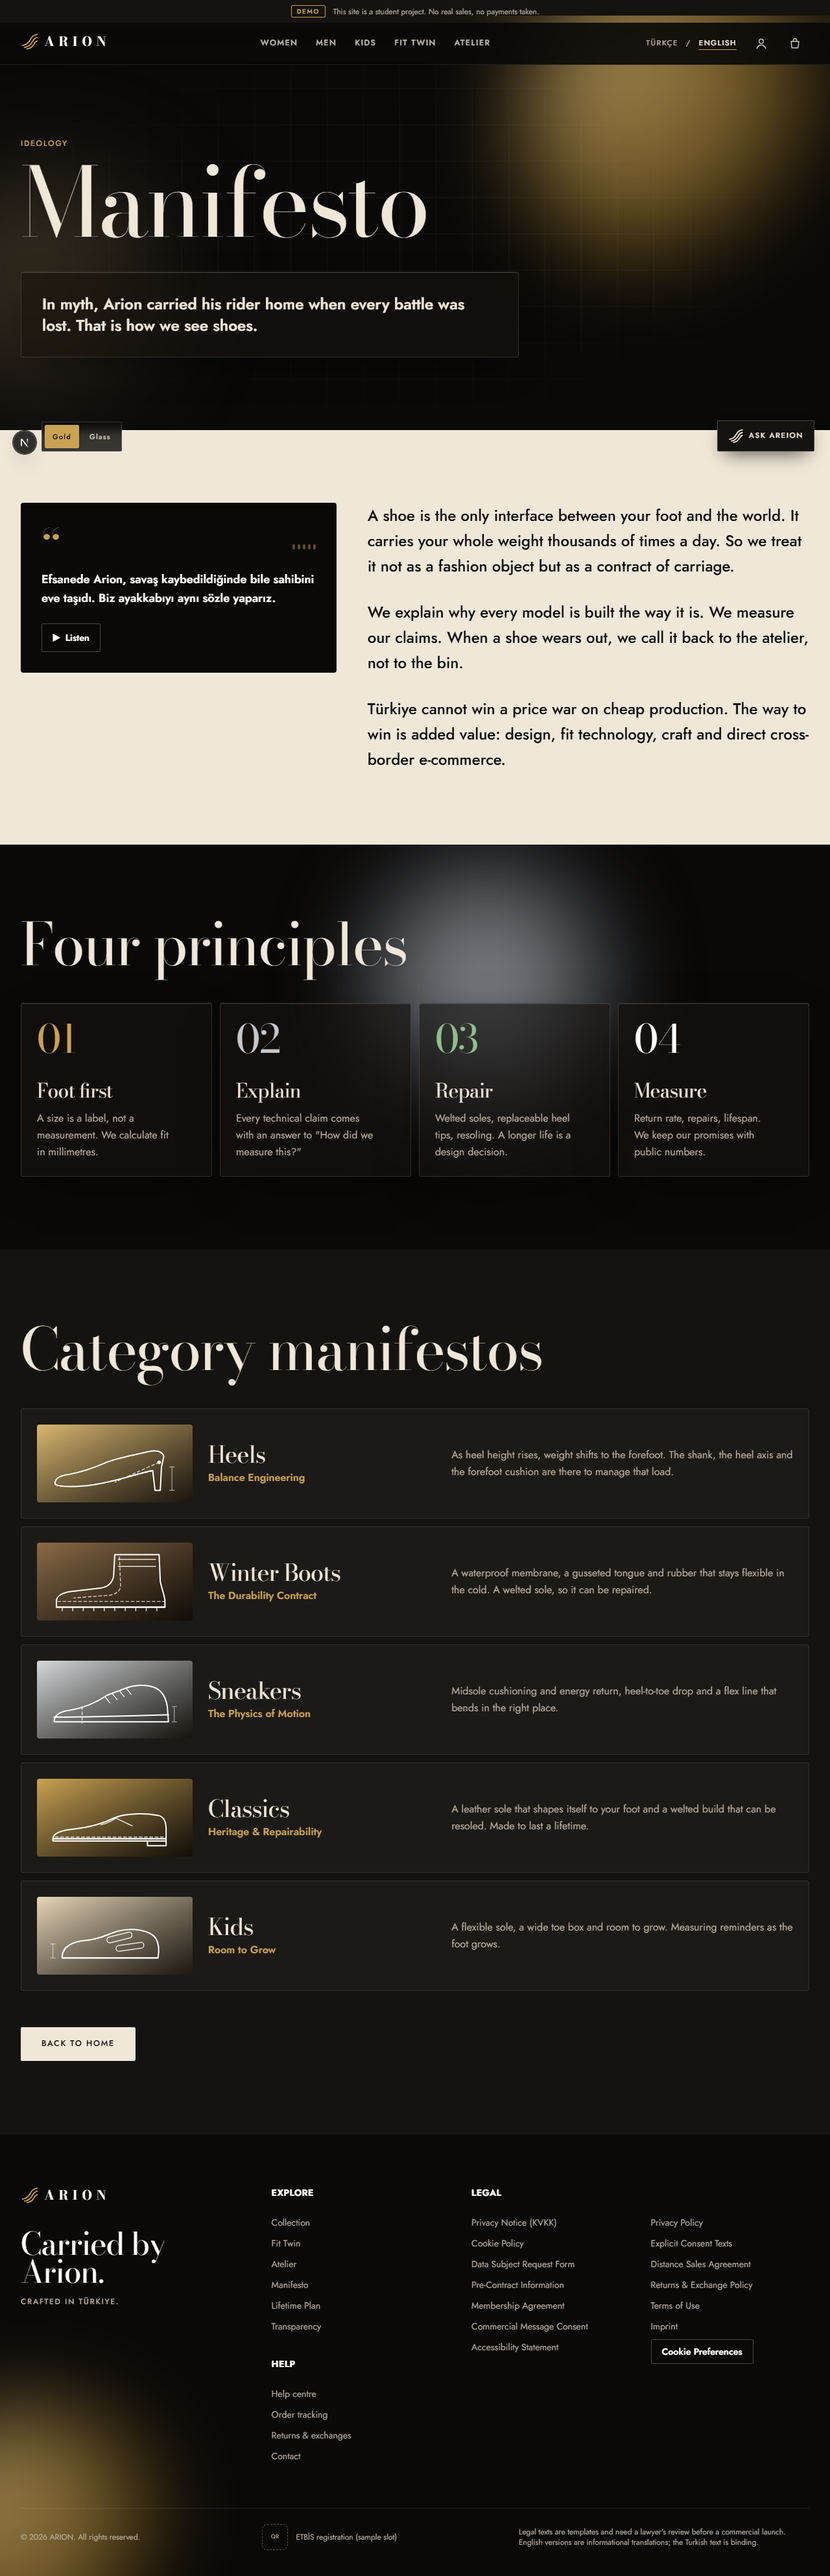
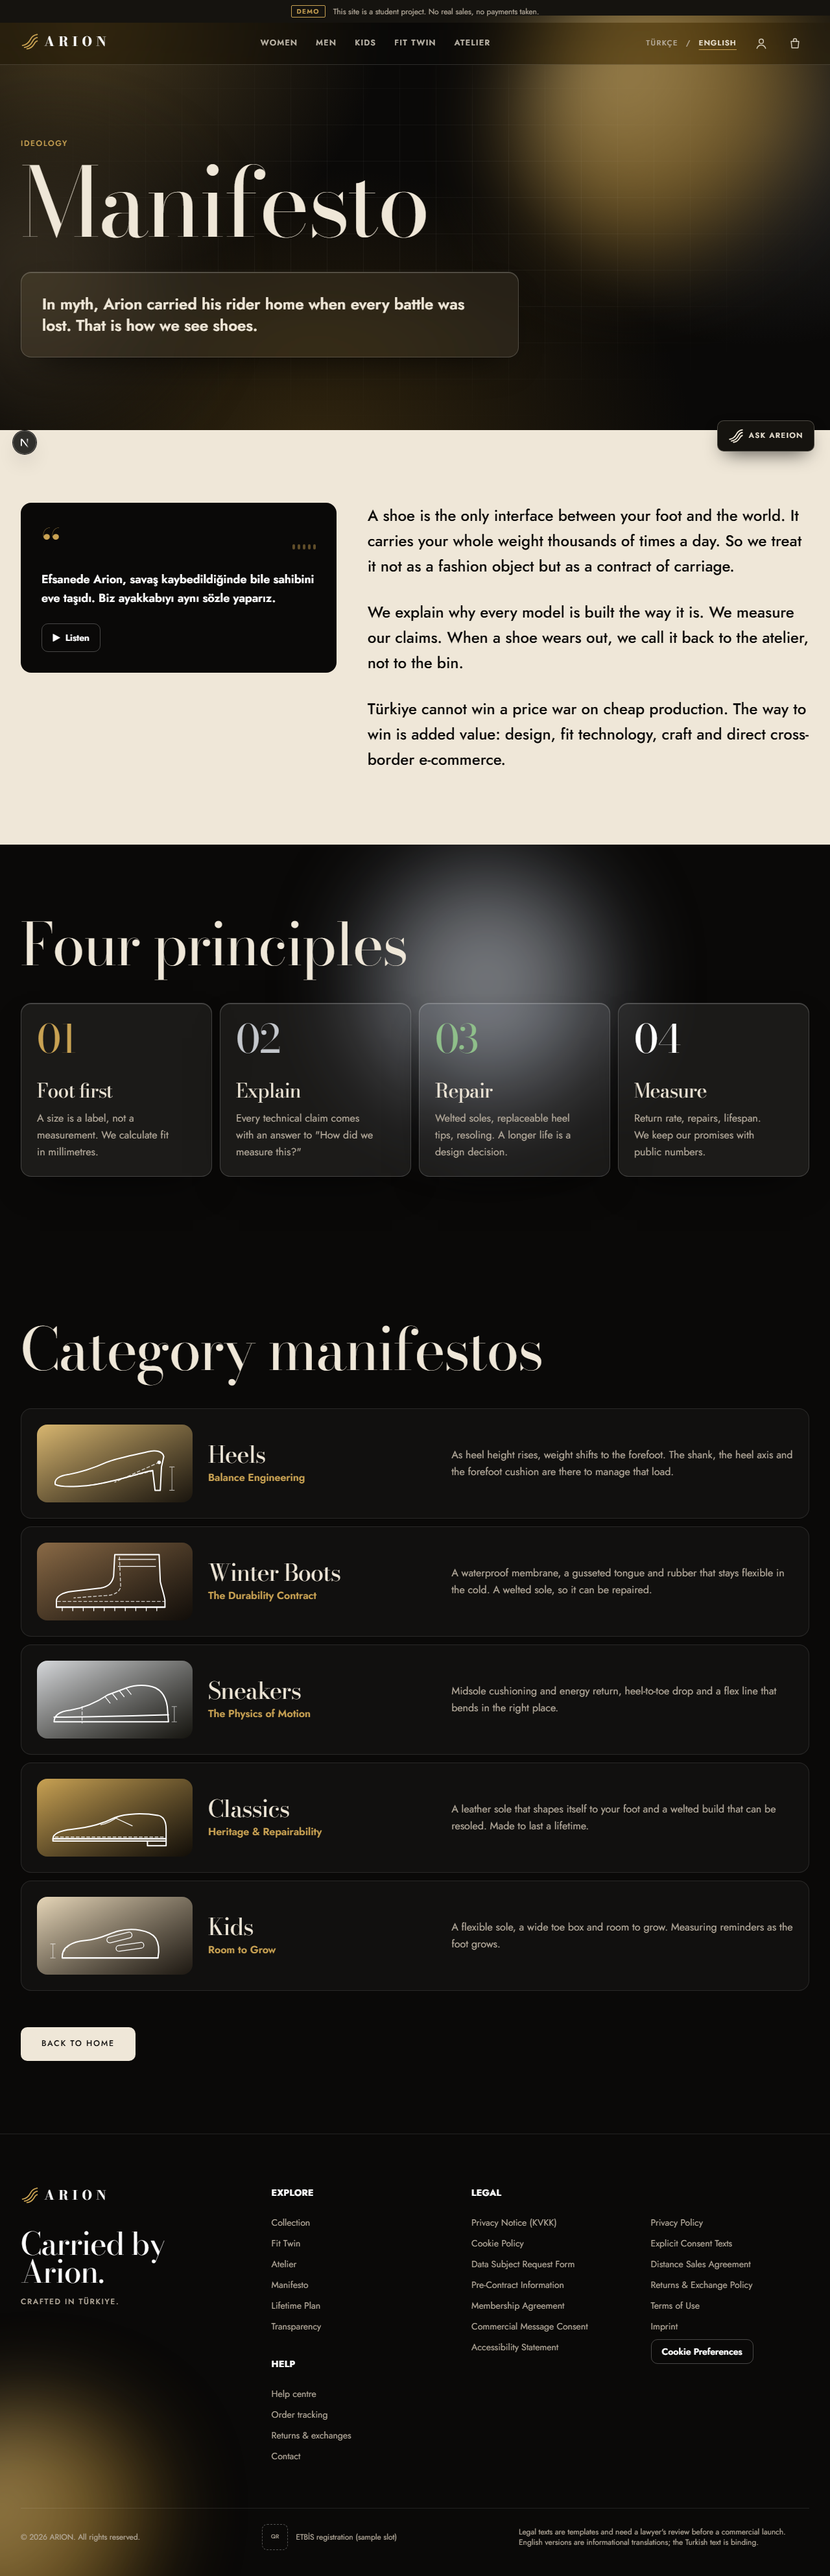
Cam görünümü kalıcı; Altın/Cam deneme anahtarı kaldırıldı (DECISIONS #088)

diff --git a/apps/storefront/src/app/[locale]/layout.tsx b/apps/storefront/src/app/[locale]/layout.tsx
@@ -15,9 +15,8 @@ import { routing } from "@/i18n/routing"
 import { readCookieChoice } from "@/lib/consent"
 import { SITE_URL } from "@/lib/site"
 import "@/styles/globals.css"
-// DENEME (DECISIONS #079): cam görünümü. Geri almak için bu import, SkinSwitch ve skin-glass.css silinir.
+// Cam görünümü kalıcıdır (DECISIONS #088): stiller <html data-skin="glass"> altında tanımlı
 import "@/styles/skin-glass.css"
-import { SkinSwitch } from "@/components/dev/skin-switch"
 
 // Türkçe karakterler (ğ, ş, İ, ı, ç, ö, ü) latin-ext alt kümesindedir — zorunlu.
 // Kadife Gece: Bodoni Moda (başlık, didone) + Jost (gövde). DECISIONS #070, #077
@@ -90,6 +89,7 @@ export default async function LocaleLayout({
   return (
     <html
       lang={locale}
+      data-skin="glass"
       className={`${bodoni.variable} ${jost.variable}`}
     >
       <body className="min-h-dvh antialiased">
@@ -108,7 +108,6 @@ export default async function LocaleLayout({
             }}
           />
           <CookieConsent initial={choice} categories={categories} />
-          <SkinSwitch />
           </FitTwinProvider>
         </NextIntlClientProvider>
       </body>

diff --git a/apps/storefront/src/styles/skin-glass.css b/apps/storefront/src/styles/skin-glass.css
@@ -1,7 +1,7 @@
 /*
- * DENEME: Cam (glassmorphism) görünümü — DECISIONS #079.
- * Yalnızca <html data-skin="glass"> iken devreye girer; varsayılan görünüm Altın & Gümüş (#078) değişmez.
- * Geri almak: bu dosyayı ve layout.tsx'teki importunu + <SkinSwitch /> bileşenini silmek yeterli.
+ * Cam (glassmorphism) görünümü — DECISIONS #079 deneme olarak eklendi, #088 ile kalıcı oldu.
+ * Altın & Gümüş paletinin (#078) üstüne gelir; layout <html data-skin="glass"> ile her zaman açar.
+ * Açılış (Kadın | Erkek) bölümü cam pano almaz.
  */
 
 /* Arka plan: camın ardında görünsün diye sabit altın/gümüş ışık havuzları */

diff --git a/apps/storefront/src/styles/globals.css b/apps/storefront/src/styles/globals.css
@@ -497,7 +497,6 @@
   }
 }
 /* Mobil sepet çubuğu görünürken sabit düğmeler yukarı kalkar */
-html[data-buybar="on"] [data-testid="areion-launcher"],
-html[data-buybar="on"] [data-testid="skin-switch"] {
+html[data-buybar="on"] [data-testid="areion-launcher"] {
   bottom: 5.25rem;
 }

diff --git a/docs/DECISIONS.md b/docs/DECISIONS.md
@@ -91,3 +91,4 @@ Rapordan sapmalar, sürüm farkları ve mimari kararlar burada tarihli olarak tu
 | 085 | 2026-11-22 | Ürün adları Yunan/Latin mitolojisinden, ARION efsanesine bağlı                               | Kullanıcı: Türkçe adlar "çok basic"; marka adı Arion (Yunan efsanesindeki ilahi at) olduğu için Latince/Eski Yunanca, ayakkabının taşıyabileceği güçlü adlar istedi. Ad + model biçimi korunur. Kadın (tanrıçalar ve gök): Selene Stiletto (Ay), Eos Blok Topuk (şafak), Artemis Topuklu Çizme (avcı), Hera Bilek Bot (kraliçe), Aurea Slingback (Lat. "altından"), Aphrodite Sandalet, Astra Mule (Lat. "yıldızlar"). Erkek (Arion'u süren kahramanlar, rüzgârlar, dağ): Adrastus Oxford (efsanede Arion'u süren Argos kralı), Castor Loafer ve Pollux Derby (binici ikizler), Herakles Chelsea (Arion'u da süren kahraman), Olympos Dağ Botu, Boreas Termal Bot (kuzey rüzgârı), Zephyros Koşu (batı rüzgârı), Helios Sneaker (güneş), Hephaistos Vulkanize (ateş ve demirci → ısıyla vulkanize taban). Çocuk: Iris Cırtlı (gökkuşağı), Triton Çocuk Botu (deniz). Başka markaların adı olan mitolojik adlar (Nike, Hermès, NYX, Pegasus) bilerek kullanılmadı. Her ürüne "ismin hikâyesi" (TR/EN, `metadata.name_story`) eklendi; ürün sayfasında başlığın altında altın italik satır. Adresler/görseller taşındı; Türkçe ad sürümü adresleri `LEGACY_HANDLES`'a eklendi.                                                                                                                                                                                                                                                                                                                                                                                                                                                                                                                                                                                                                                                                                                                                                                   | #084'teki adların yerini alır.                                                                                                                                                                                                                                      |
 | 086 | 2026-11-22 | Çocuk koleksiyonuna 2 mitolojik model                                                        | Kullanıcı çocuklara aynı mantıkla 2 ürün istedi. Hebe Çocuk Sneaker (gençliğin tanrıçası; lastik bağcık, hafif EVA taban; Beyaz/Lacivert) ve Delphinus Çocuk Sandalet (Arion'un babası Poseidon'un yunusu; kapalı burun, suya dayanıklı bantlar; Mavi/Pembe). Her biri için isim hikâyesi (TR/EN) ve aynı şablonla 3 görsel (yan, ikinci renk, üstten). Katalog 20 ürün.                                                                                                                                                                                                                                                                                                                                                                                                                                                                                                                                                                                                                                                                                                                                                                                                                                                                                                                                                                                                                                                                                                                                                                                                                                                                                                                                                                                                                                                                                                                                                                       | #085'i genişletir.                                                                                                                                                                                                                                                  |
 | 087 | 2026-11-22 | Areion gösterim amaçlı; site GitHub Pages'te backend'siz statik yayın                        | Kullanıcı: "Areion'daki API'yi kaldır, göstermelik dursun" ve "GitHub üzerinden yayına al, yalnızca frontend olsun". (1) Areion: Gemini uç noktası (`/api/areion`), `lib/ai`, yurt dışı aktarım rıza adımı ve çerezi, `ai` ve `@ai-sdk/google` paketleri kaldırıldı. Sohbet anahtar kelimeyle konu seçen hazır yanıtlar verir (sağlık → tavsiye yok, hekime yönlendirme; numara, iade, kargo, tamir, kadın/erkek/çocuk ürünleri) ve ilgili sayfaya bağlantı ekler; hiçbir mesaj dışarı gönderilmez. Temsilciye aktarım backend'li sürümde gerçek talep açar, statik sürümde demo bilet numarası gösterir. (2) Yayın: kullanıcı GitHub Pages ve herkese açık depo seçti; depo `xavion16.github.io` (kök alan adı, basePath yok). Normal (backend'li) uygulama ve testler değişmez; statik sürüm `scripts/static-export.mjs` ile ayrı derlenir: yalnızca üretilen `*.static.tsx` sarmalayıcıları sayfa sayılır (`pageExtensions`), sayfalar `force-static`; sunucu işlemleri `turbopack.resolveAlias` ile `lib/static/actions/*` tarayıcı sürümlerine yönlenir; backend yanıtları `snapshot/`'a bir kez kaydedilir (`--record`) ve derlemede tekrar oynatılır (`lib/medusa/client.ts` fetch sarmalayıcısı). Sepet tarayıcıda (localStorage) tutulur, sepet sayfası derlemedeki katalogla çizilir, ödeme "Siparişi tamamla (demo)" onayıyla biter; çerez tercihi tarayıcıda saklanır; koleksiyon numara/genişlik filtresi tarayıcıda uygulanır; giriş/kayıt "üyelik gösterim amaçlıdır" uyarısı verir. Dil yolu çevirisi sunucu gerektirdiği için statik sürümde EN sayfalar TR yol adlarını kullanır (`/en/urun/…`). Yayına girmeyen: hesap paneli, ödeme, sipariş, API uçları. Next 16 statik export ön yükleme parçalarını klasöre yazıp noktalı adla istediğinden derleme sonrası düz adlı kopyalar üretilir. GitHub Actions (`.github/workflows/pages.yml`) yalnızca storefront'u kurar, `@arion/legal-texts`'i derler ve `out/`'u yayınlar. | Faz 4'teki Areion AI kararlarının yerini alır.                                                                                                                                                                                                                      |
+| 088 | 2026-11-22 | Cam görünümü kalıcı, deneme anahtarı kaldırıldı                                              | Kullanıcı: "siteyi cam olarak tasarla, oradaki seçeneği kaldır". #079'daki deneme cam görünümü varsayılan oldu: layout `<html data-skin="glass">` ile her zaman açar; `skin-glass.css` korunur (açılış bölümü yine cam pano almaz). "Altın / Cam" anahtarı (`components/dev/skin-switch.tsx`), mesajlardaki `skin` anahtarı ve sepet çubuğu ile ilgili kaydırma kuralı kaldırıldı. Erişilebilirlik testleri (axe, kontrast dahil) cam görünümle geçer.                                                                                                                                                                                                                                                                                                                                                                                                                                                                                                                                                                                                                                                                                                                                                                                                                                                                                                                                                                                                                                                                                                                                                                                                                                                                                                                                                                                                                                                                                         | #079'u kalıcılaştırır.                                                                                                                                                                                                                                              |

diff --git a/CLAUDE.md b/CLAUDE.md
@@ -31,7 +31,7 @@ Medusa'ya özel dizin yapısı, kurallar ve yasak yollar için [AGENTS.md](./AGE
 
 ## Tasarım
 
-- Tasarım yönü: "Altın & Gümüş" (DECISIONS #078, #070 yerine) — sıcak siyah zemin, altın (#c9a253) ana vurgu, gümüş (#c4c7cc) erkek vurgusu, bej/fildişi metin; mor/bordo yok. Açılış ikiye bölünmüş Kadın / Erkek. Cam görünümü yalnızca deneme anahtarı (#079). Bodoni Moda + Jost (#077: hap buton, mono etiket, krom metin yok; köşeli butonlar), fotoğraf ağırlıklı. Kadın = yalnızca topuklu, Erkek ayrı dünya. Token'lar `apps/storefront/src/styles/globals.css`.
+- Tasarım yönü: "Altın & Gümüş" (DECISIONS #078, #070 yerine) — sıcak siyah zemin, altın (#c9a253) ana vurgu, gümüş (#c4c7cc) erkek vurgusu, bej/fildişi metin; mor/bordo yok. Açılış ikiye bölünmüş Kadın / Erkek. Cam (glassmorphism) görünümü kalıcı (#088): buzlu üst çubuk, yumuşak köşeli cam kartlar, altın ışık havuzlu arka plan; açılış cam pano almaz. Bodoni Moda + Jost (#077: hap buton, mono etiket, krom metin yok; köşeli butonlar), fotoğraf ağırlıklı. Kadın = yalnızca topuklu, Erkek ayrı dünya. Token'lar `apps/storefront/src/styles/globals.css`.
 - Başka markaların logosu, fontu, sloganı ya da görselleri kullanılmaz.
 - Cam panellerde metin kontrastı AA'yı geçmeli; altın (ember) zemin üzerinde metin her zaman koyu.
 - prefers-reduced-motion'a saygı göster. WCAG 2.2 AA hedefi.
